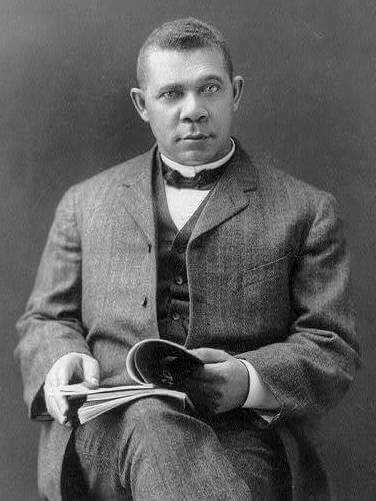
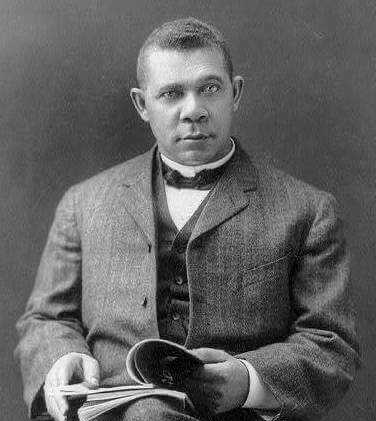
improve images

diff --git a/pages/question/[questionId].tsx b/pages/question/[questionId].tsx
@@ -18,6 +18,7 @@ import useSound from "use-sound";
 const QuestionComponent: NextPageWithLayout = () => {
   const router = useRouter();
   const [play] = useSound("/select2.mp3");
+  const [playSuccess] = useSound("/success.mp3");
   const { questionId } = router.query;
   const [, setAnswer] = useLocalStorage(`answer${questionId}`, true);
   const [question, setQuestion] = useState<Question>();
@@ -43,6 +44,11 @@ const QuestionComponent: NextPageWithLayout = () => {
         return { ...answer, selected: answer.id === selectedAnswer.id };
       });
       play();
+      if (question.id === "9") {
+        setTimeout(() => {
+          playSuccess();
+        }, 1300);
+      }
       storeAnswer(selectedAnswer);
       setQuestion({ ...question, answers: modifiedAnswers });
       setAnswer(selectedAnswer.isCorrect);
@@ -94,6 +100,8 @@ const QuestionComponent: NextPageWithLayout = () => {
                       {
                         "opacity-0 duration-700": answer.selected === false,
                         "scale-110 duration-700": answer.selected === true,
+                        "place-self-end md:place-self-center": index % 2 === 0,
+                        "place-self-start md:place-self-center": index % 2 !== 0,
                       }
                     )}
                   />

diff --git a/content/answers.ts b/content/answers.ts
@@ -11,7 +11,7 @@ import man13 from "../public/man13.webp";
 import man14 from "../public/man14.jpeg";
 import man15 from "../public/man15.jpeg";
 import man16 from "../public/man16.jpeg";
-import man17 from "../public/man17.jpeg";
+import man17 from "../public/man177.jpeg";
 import man18 from "../public/man18.jpeg";
 import man19 from "../public/man19.jpeg";
 import man20 from "../public/man20.jpeg";
